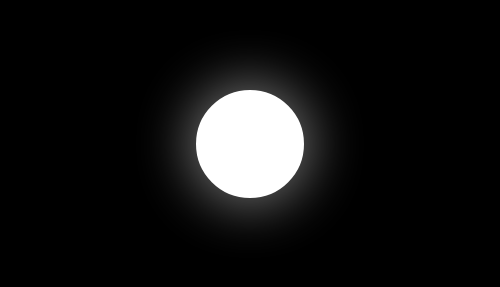
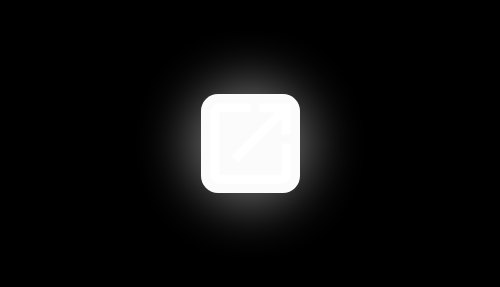
v1.1 Mid

Changed region(s): [[0.39, 0.3066, 0.6, 0.669], [0.45, 0.5854, 0.6, 0.6969], [0.6, 0.446, 0.63, 0.5575]]

diff --git a/src/components/Three/MainBooth.js b/src/components/Three/MainBooth.js
@@ -11,6 +11,8 @@ export default function MainBooth(props) {
 	const mapTexture = useLoader(TextureLoader, '../../../officeMap.jpg');
 	const enlargeTexture = useLoader(TextureLoader, '../../../enlarge.png');
 	const enlargeAlphaTexture = useLoader(TextureLoader, '../../../enlarge_alpha.png');
+	const enlargeTextureNormal = useLoader(TextureLoader, '../../../enlarge-normal.png');
+	const enlargeAlphaTextureNormal = useLoader(TextureLoader, '../../../enlarge-normal-alpha.png');
 
 	const [mapOver, setMapOver] = useState(false)
 	const [mapClicked, setMapClicked] = useState(false)
@@ -77,7 +79,12 @@ export default function MainBooth(props) {
 					<boxBufferGeometry attach="geometry" args={[1.9, 2.9, 0.8]}/>
 					<meshBasicMaterial attach="material" color="#fff"/>
 				</mesh>
-
+				{ !mapSelected &&
+				<mesh position={[0, 1.29, -0.45]}>
+					<boxBufferGeometry attach="geometry" args={[1.35, 1.35, 0.01]}/>
+					<meshStandardMaterial attach="material" map={enlargeTextureNormal} transparent alphaMap={enlargeAlphaTextureNormal}/>
+				</mesh>
+				}
 				{ mapSelected &&
 				<mesh position={[0, 1.29, -0.45]}>
 					<boxBufferGeometry attach="geometry" args={[1.35, 1.35, 0.01]}/>
